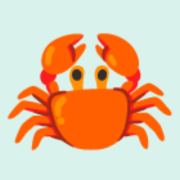
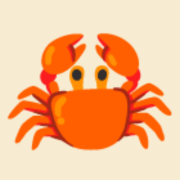
夏: 床を砂浜の色にし、置き場と収まりを海と藤色に合わせる

diff --git a/warehouse/index.html b/warehouse/index.html
@@ -83,22 +83,24 @@ body.skin-spring{
   --done-soft:#bde6ce;
   --line:#f2dde6;
 }
-/* 夏の色。壁は濡れた岩、床は波打ち際の浅瀬 */
+/* 夏の色。床は乾いた砂浜、壁は海と濡れた岩。
+   フンコロガシも砂色だが、あちらは壁まで茶色。こちらは砂に海の壁を立てて分ける */
 body.skin-summer{
-  --ink:#0f4550;
-  --ink-soft:#487f88;
-  --paper:#e9f7f4;
-  --card:#ffffff;
+  --ink:#164a52;
+  --ink-soft:#5c8189;
+  --paper:#f7f0df;
+  --card:#fffdf5;
   --wall:#2c7b84;
   --wall-top:#3f99a1;
-  --floor:#d9f2ec;
-  /* すいかが赤と緑なので、置き場はどちらとも重ならない珊瑚色に。
-     収まったら紫。暖色と寒色で、色みの向きを変えて見分ける */
-  --goal:#e2591f;
-  --goal-soft:#f7b393;
+  --floor:#f7ecd2;
+  /* すいかが赤と緑なので、置き場はどちらとも重ならない海の色に。
+     壁と同系だが、こちらはずっと明るく緑寄り(色相173対187)なので混ざらない。
+     収まったら藤色。砂・海・藤の3色で、どのマスも一目で分かる */
+  --goal:#0e9b93;
+  --goal-soft:#8fdfd6;
   --done:#5b4bc4;
-  --done-soft:#b6aef0;
-  --line:#c3e5dd;
+  --done-soft:#bdb4f2;
+  --line:#e7dbc0;
 }
 /* リスの色。壁は苔むした木、床は落ち葉 */
 body.skin-squirrel{

diff --git a/warehouse/summer/index.html b/warehouse/summer/index.html
@@ -20,7 +20,7 @@
 <meta name="twitter:card" content="summary">
 <style>
   html,body{height:100%;margin:0}
-  body{font-family:'Hiragino Maru Gothic ProN',system-ui,sans-serif;background:#d9f2ec;color:#0f4550;
+  body{font-family:'Hiragino Maru Gothic ProN',system-ui,sans-serif;background:#f7ecd2;color:#164a52;
        display:flex;align-items:center;justify-content:center;flex-direction:column;gap:14px}
   .em{font-size:64px;line-height:1}
   a{color:inherit;font-size:13px;font-weight:700}
